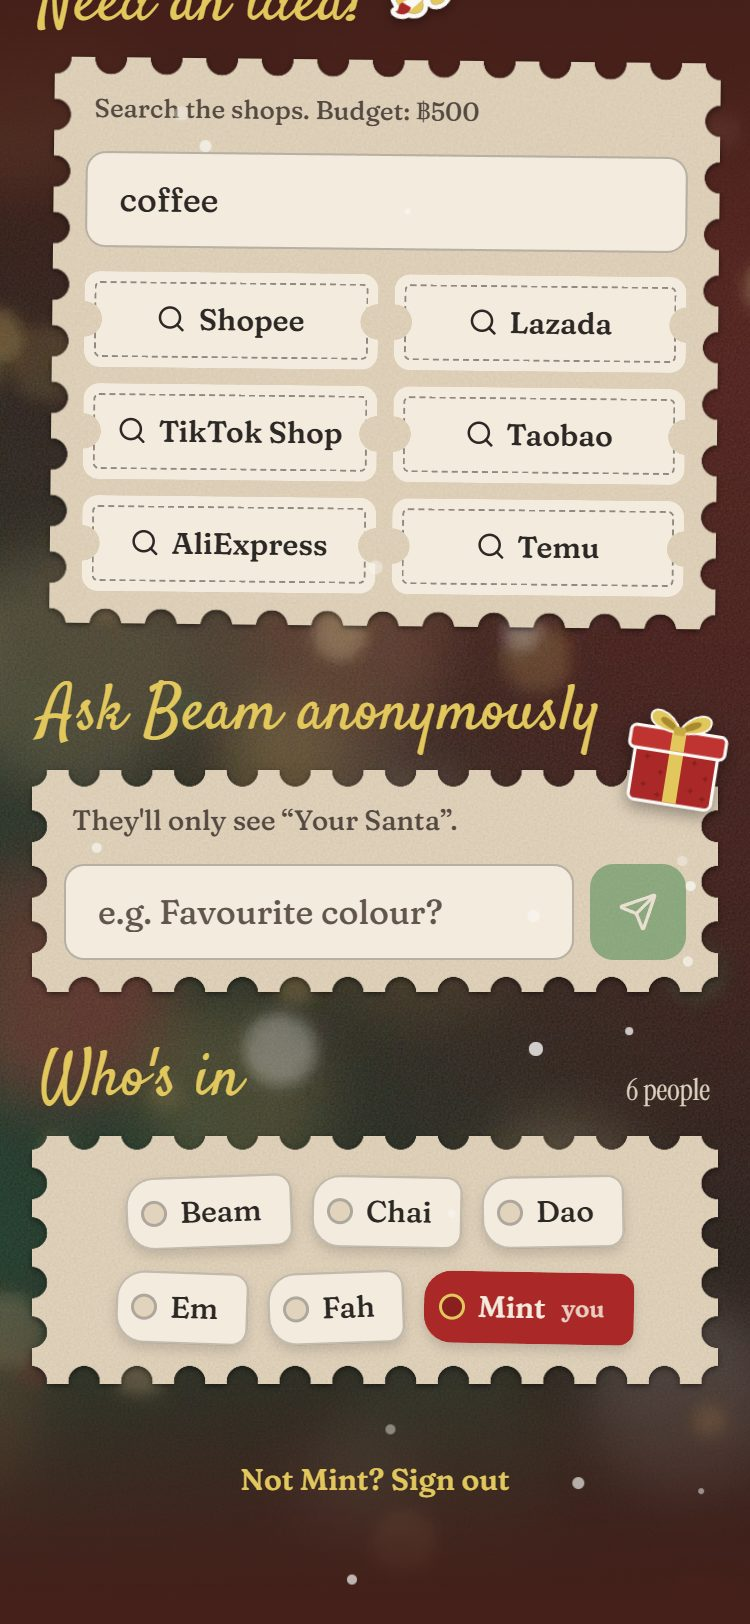
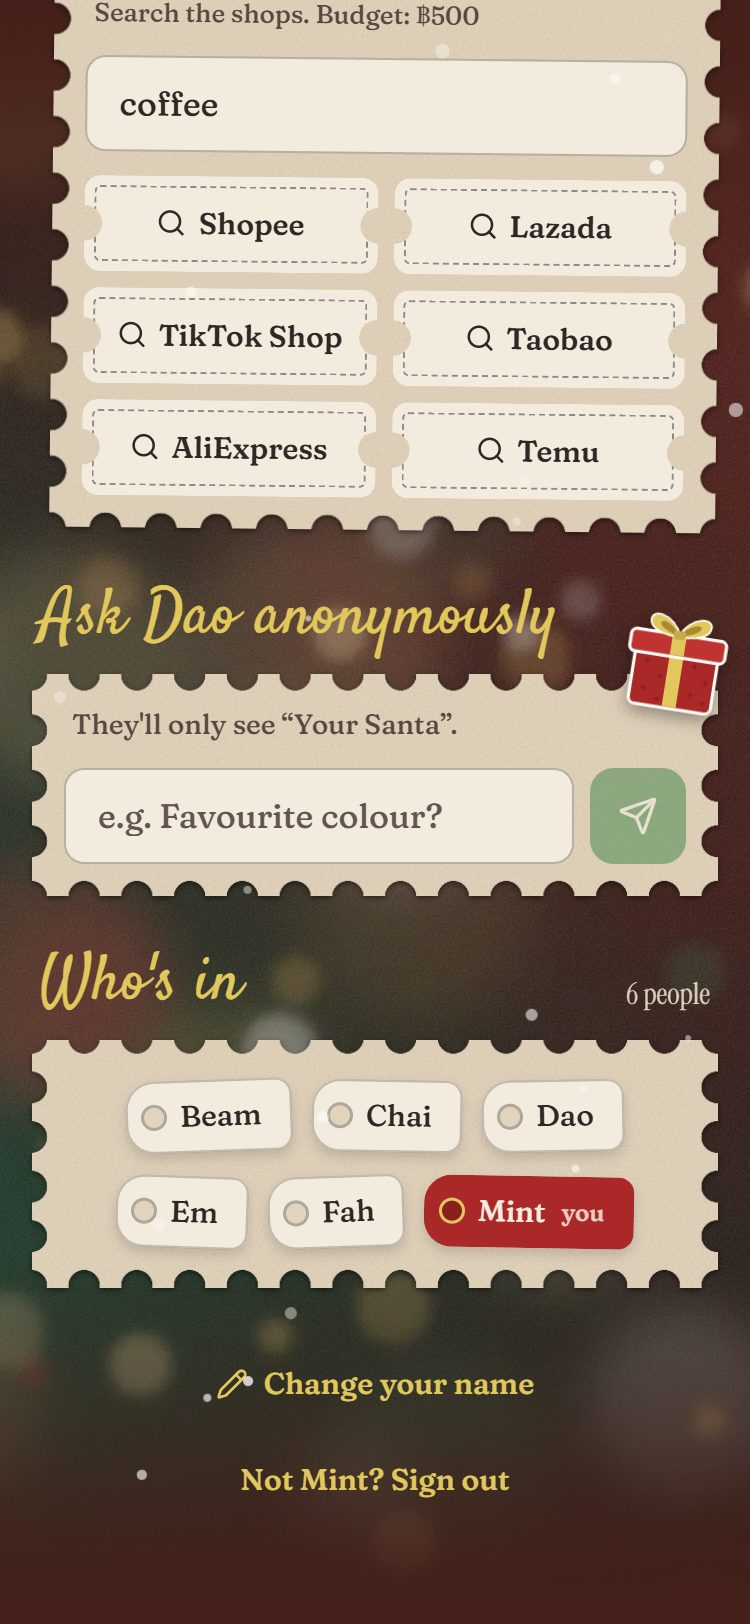
Change your own name, and no focus rings round tapped fields
- "Change your name" sits above "Sign out" on your page. It opens a sheet with your name filled in;
  a name someone else already has is refused, as when joining. Draws, guesses and messages point at
  the person, not the name, so nothing else changes and your Santa just sees the new name.
- The PIN keypad no longer gets a red ring when its sheet opens, and text fields no longer get a gold
  ring when tapped: their border turns red and thickens inward instead.
- README: the new feature, and the Who's in screenshot with the new button.

diff --git a/src/components/MemberApp.tsx b/src/components/MemberApp.tsx
@@ -12,6 +12,8 @@ import { parseShopPaste, safeUrl, SHOP_LABEL, shopOf, siteOf, type Shop } from "
 import { Countdown, Fall, GiftBox, GroupFacts, GiftTag, GuessResults, useArrivals, useRoomEntrance } from "./Festive";
 import { Callout, Choice, cx, ICON, PinPad, Section, Segmented, Sheet, Sticker } from "./ui";
 
+type ActError = { error: string; name?: string };
+
 export function MemberApp({ id, initial }: { id: string; initial: PublicGroup }) {
   const t = useT();
   const [group, setGroup] = useState(initial);
@@ -29,12 +31,13 @@ export function MemberApp({ id, initial }: { id: string; initial: PublicGroup })
   }, [id]);
 
   const act = useCallback(
-    async (s: Session, action: MeAction) => {
+    async (s: Session, action: MeAction, onError?: (e: ActError) => void) => {
       const res = await api<MemberView>(`/api/g/${id}/me`, { ...s, action });
       if (res.ok) {
         setView(res.data);
         setGroup(res.data.group);
       } else if (res.error === "signed_out") signOut();
+      else onError?.(res);
       return res.ok;
     },
     [id, signOut],
@@ -80,7 +83,7 @@ export function MemberApp({ id, initial }: { id: string; initial: PublicGroup })
       {!ready || (session && !view) ? (
         <p className="py-10 text-center text-ink-2">{t("loading")}</p>
       ) : session && view ? (
-        <Signedin view={view} act={(a) => act(session, a)} signOut={signOut} budget={group.budget} members={group.members} joined={joined} />
+        <Signedin view={view} act={(a, onError) => act(session, a, onError)} signOut={signOut} budget={group.budget} members={group.members} joined={joined} />
       ) : (
         <Picker
           id={id}
@@ -223,7 +226,7 @@ function Signedin({
   joined,
 }: {
   view: MemberView;
-  act: (a: MeAction) => Promise<boolean>;
+  act: (a: MeAction, onError?: (e: ActError) => void) => Promise<boolean>;
   signOut: () => void;
   budget: number | null;
   members: PublicGroup["members"];
@@ -231,6 +234,7 @@ function Signedin({
 }) {
   const t = useT();
   const [tab, setTab] = useState<"person" | "mine">("person");
+  const [renaming, setRenaming] = useState(false);
   const unread = view.withSanta.at(-1)?.from === "santa";
   return (
     <>
@@ -253,12 +257,50 @@ function Signedin({
       />
       {tab === "person" ? <PersonTab view={view} act={act} budget={budget} /> : <MineTab view={view} act={act} members={members} />}
       <WhoIsIn members={members} meId={view.me.id} joined={joined} />
-      <div className="text-center">
+      <div className="flex flex-wrap justify-center">
+        <button type="button" className="btn-ghost text-[15px]" onClick={() => setRenaming(true)}>
+          <Pencil size={16} {...ICON} aria-hidden />
+          {t("changeName")}
+        </button>
         <button type="button" className="btn-ghost text-[15px]" onClick={signOut}>
           {t("signOut", { name: view.me.name })}
         </button>
       </div>
+      {renaming && <RenameSheet name={view.me.name} act={act} onClose={() => setRenaming(false)} />}
     </>
+  );
+}
+
+/** Fixing your own name. Everyone sees the new one, your Santa included; nothing else changes. */
+function RenameSheet({ name, act, onClose }: { name: string; act: (a: MeAction, onError?: (e: ActError) => void) => Promise<boolean>; onClose: () => void }) {
+  const t = useT();
+  const [value, setValue] = useState(name);
+  const [error, setError] = useState("");
+  const [busy, setBusy] = useState(false);
+  const next = value.trim();
+  async function save() {
+    if (next === name) return onClose();
+    setBusy(true);
+    setError("");
+    const ok = await act({ type: "rename", name: next }, (e) => setError(errorText(t, e)));
+    setBusy(false);
+    if (ok) onClose();
+  }
+  return (
+    <Sheet open onClose={onClose} title={t("changeName")} confirmForm="rename" confirmLabel={t("save")} confirmDisabled={!next || busy}>
+      <form
+        id="rename"
+        className="space-y-3"
+        onSubmit={(e) => {
+          e.preventDefault();
+          save();
+        }}
+      >
+        <p className="text-[15px] leading-snug text-ink-2">{t("changeNameHint")}</p>
+        <input className="input" maxLength={40} autoComplete="given-name" value={value} aria-label={t("yourName")} placeholder={t("yourName")} onChange={(e) => setValue(e.target.value)} />
+        {error && <Callout tone="error">{error}</Callout>}
+      </form>
+    </Sheet>
   );
 }
 

diff --git a/src/lib/server/groups.ts b/src/lib/server/groups.ts
@@ -243,7 +243,7 @@ export async function join(id: string, name: string, pin: string) {
   if (!g) return { error: "not_found" as const };
   if (isDrawn(g)) return { error: "closed" as const };
   if (g.ids.length >= MAX_PEOPLE) return { error: "full" as const };
-  if (g.ids.some((m) => g.raw[`m:${m}`].toLocaleLowerCase() === name.toLocaleLowerCase())) return { error: "duplicate_name" as const, name };
+  if (g.ids.some((m) => sameName(g.raw[`m:${m}`], name))) return { error: "duplicate_name" as const, name };
   const memberId = newId();
   const salt = newId(12);
   await kv().hset(groupKey(id), { [`m:${memberId}`]: name, [`p:${memberId}`]: JSON.stringify({ salt, hash: hashPin(pin, salt) }) });
@@ -320,7 +320,10 @@ export type MeAction =
   | { type: "about"; about: AboutMe }
   | { type: "guess"; target: string | null }
   | { type: "ask"; text: string }
-  | { type: "reply"; text: string };
+  | { type: "reply"; text: string }
+  | { type: "rename"; name: string };
+
+const sameName = (a: string, b: string) => a.toLocaleLowerCase() === b.toLocaleLowerCase();
 
 export async function memberAction(id: string, memberId: string, token: string, action: MeAction) {
   const g = await authed(id, memberId, token);
@@ -343,6 +346,12 @@ export async function memberAction(id: string, memberId: string, token: string, 
   }
   if (action.type === "ask") await post(g, unseal(sealSecret(), id, memberId, g.raw[`s:${memberId}`]), "santa", action.text);
   if (action.type === "reply") await post(g, memberId, "person", action.text);
+  // Draws, guesses and messages all point at the id, so only the name itself changes. Two people
+  // with one name would leave a Santa unsure who they drew, as when joining.
+  if (action.type === "rename") {
+    if (g.ids.some((m) => m !== memberId && sameName(g.raw[`m:${m}`], action.name))) return { error: "duplicate_name" as const, name: action.name };
+    await field(`m:${memberId}`, action.name);
+  }
   if (action.type !== "load") await touch(id);
   const view = await memberView(g, memberId);
   // Their own list, and the list of the person they drew: the two this page shows.

diff --git a/src/app/globals.css b/src/app/globals.css
@@ -121,7 +121,15 @@ textarea {
 dialog :focus-visible {
   outline-color: var(--santa);
 }
-dialog:focus-visible {
+dialog:focus-visible,
+/* Text fields count as focus-visible on every tap, so the ring drew round a field the moment it was
+   touched; their own red border (see the input utility) shows where you're typing instead. */
+input:focus-visible,
+textarea:focus-visible,
+.input:focus-visible,
+/* The PIN keypad takes focus as its sheet opens, so a computer's number keys work at once; its dots
+   show the typing, and a ring round the whole pad looked like an error before anything was tapped. */
+.pin-pad:focus-visible {
   outline: none;
 }
 * {
@@ -327,10 +335,10 @@ dialog:focus-visible {
   border-radius: 10px;
   background-color: var(--paper-light);
   border: 1.5px solid rgb(44 40 37 / 0.3);
+  /* No ring outside: the border turns red and thickens inward. */
   &:focus-visible {
     border-color: var(--santa);
-    outline: 2px solid var(--santa);
-    outline-offset: 0;
+    box-shadow: inset 0 0 0 1px var(--santa);
   }
 }
 @utility label {

diff --git a/src/app/api/g/[id]/me/route.ts b/src/app/api/g/[id]/me/route.ts
@@ -7,6 +7,7 @@ export function POST(req: Request, { params }: { params: Promise<{ id: string }>
     const body = MeBody.safeParse(await readJson(req));
     if (!body.success) return jsonError(400, "invalid");
     const view = await memberAction((await params).id, body.data.memberId, body.data.token, body.data.action);
-    return view ? Response.json(view) : jsonError(401, "signed_out");
+    if (!view) return jsonError(401, "signed_out");
+    return "error" in view ? jsonError(409, view.error, { name: view.name }) : Response.json(view);
   });
 }

diff --git a/src/lib/schema.ts b/src/lib/schema.ts
@@ -61,6 +61,8 @@ export const MeBody = z.object({
     z.object({ type: z.literal("ask"), text: Message }),
     /** The person replying to their unknown Santa. */
     z.object({ type: z.literal("reply"), text: Message }),
+    /** Fixing your own name, e.g. a typo or a nickname. */
+    z.object({ type: z.literal("rename"), name: text(40).check(z.minLength(1)) }),
   ]),
 });
 

diff --git a/src/components/ui.tsx b/src/components/ui.tsx
@@ -272,7 +272,7 @@ export function PinPad({ value, onChange, label, autoFocus }: { value: string; o
       tabIndex={0}
       role="group"
       aria-label={label}
-      className="space-y-3 outline-none"
+      className="pin-pad space-y-3"
       onKeyDown={(e) => {
         if (/^\d$/.test(e.key)) press(e.key);
         else if (e.key === "Backspace") press("del");

diff --git a/src/lib/i18n.tsx b/src/lib/i18n.tsx
@@ -130,6 +130,8 @@ const en = {
   continue: "Continue",
   wrongPin: "That PIN isn't right.",
   signOut: "Not {name}? Sign out",
+  changeName: "Change your name",
+  changeNameHint: "Everyone in the group will see your new name, your Santa too. Your PIN, wish list and messages stay the same.",
 
   tabPerson: "Your person",
   tabMine: "Your wish list",

diff --git a/README.md b/README.md
@@ -26,7 +26,7 @@ Run a gift exchange from one link. Create a group, share the link, and everyone 
 <p>
   <img src="docs/screenshots/unwrap.jpg" alt="A wrapped gift waiting to be tapped" width="240">
   <img src="docs/screenshots/reveal.jpg" alt="The name you drew, on a gift tag" width="240">
-  <img src="docs/screenshots/whos-in.jpg" alt="Who's in: everyone in the group on paper gift tags, yours in red" width="240">
+  <img src="docs/screenshots/whos-in.jpg" alt="Who's in: everyone in the group on paper gift tags, yours in red, with Change your name and Sign out below" width="240">
 </p>
 <p>
   <img src="docs/screenshots/wishes.jpg" alt="A wish list where every link shows its website, and the IKEA one its price from the shop" width="240">
@@ -54,6 +54,7 @@ The screenshots use a demo group with made-up names.
 
 **Taking part**
 - **Join with your name and a 4-digit PIN,** tapped on the site's own keypad. The PIN opens your page on another phone.
+- **Change your name** any time, before or after the draw, to fix a typo or use a nickname. Everyone sees the new one, your Santa too; your PIN, wish list and messages stay.
 - **See who's in:** once you've joined, your page lists everyone in the group by name, with yours marked. Never who drew whom. Your tag drops in when you join, and so does anyone else's who joins while you're there.
 - **The first time you open a group,** its page lays itself out: the name writes itself in, the tickets drop and the cards rise.
 - **Unwrap a gift** to see who you drew: confetti bursts and the name writes itself onto a gift tag. It wraps itself again on each visit, so the name is never on screen by surprise.

diff --git a/DESIGN.md b/DESIGN.md
@@ -255,7 +255,7 @@ Cards have no corners to speak of: their edge is a row of perforations, like a p
 
 ### Inputs / Fields
 - **Style:** bright paper, 1.5px ink border at 30%, 10px corners, a red caret.
-- **Focus:** a red border and a 2px red outline.
+- **Focus:** the border turns red and thickens inward, with no ring outside it: a ring round a field the moment it was tapped looked like an error.
 - **PIN keypad:** PINs are tapped on the site's own pad (`PinPad`), never typed with the phone's keyboard: four ink rings that fill with a small pop, over a 3x4 grid of chip keys with a delete key. Number keys, Backspace and Enter work on a computer.
 - **Pickers:** choosing a person (`Choice`) is a field with a chevron that opens a sheet listing the names as rows on a stamp card, with a green tick on the current one. It stands in for the phone's own wheel or menu, and a picker inside a sheet opens its sheet over that one.
 
